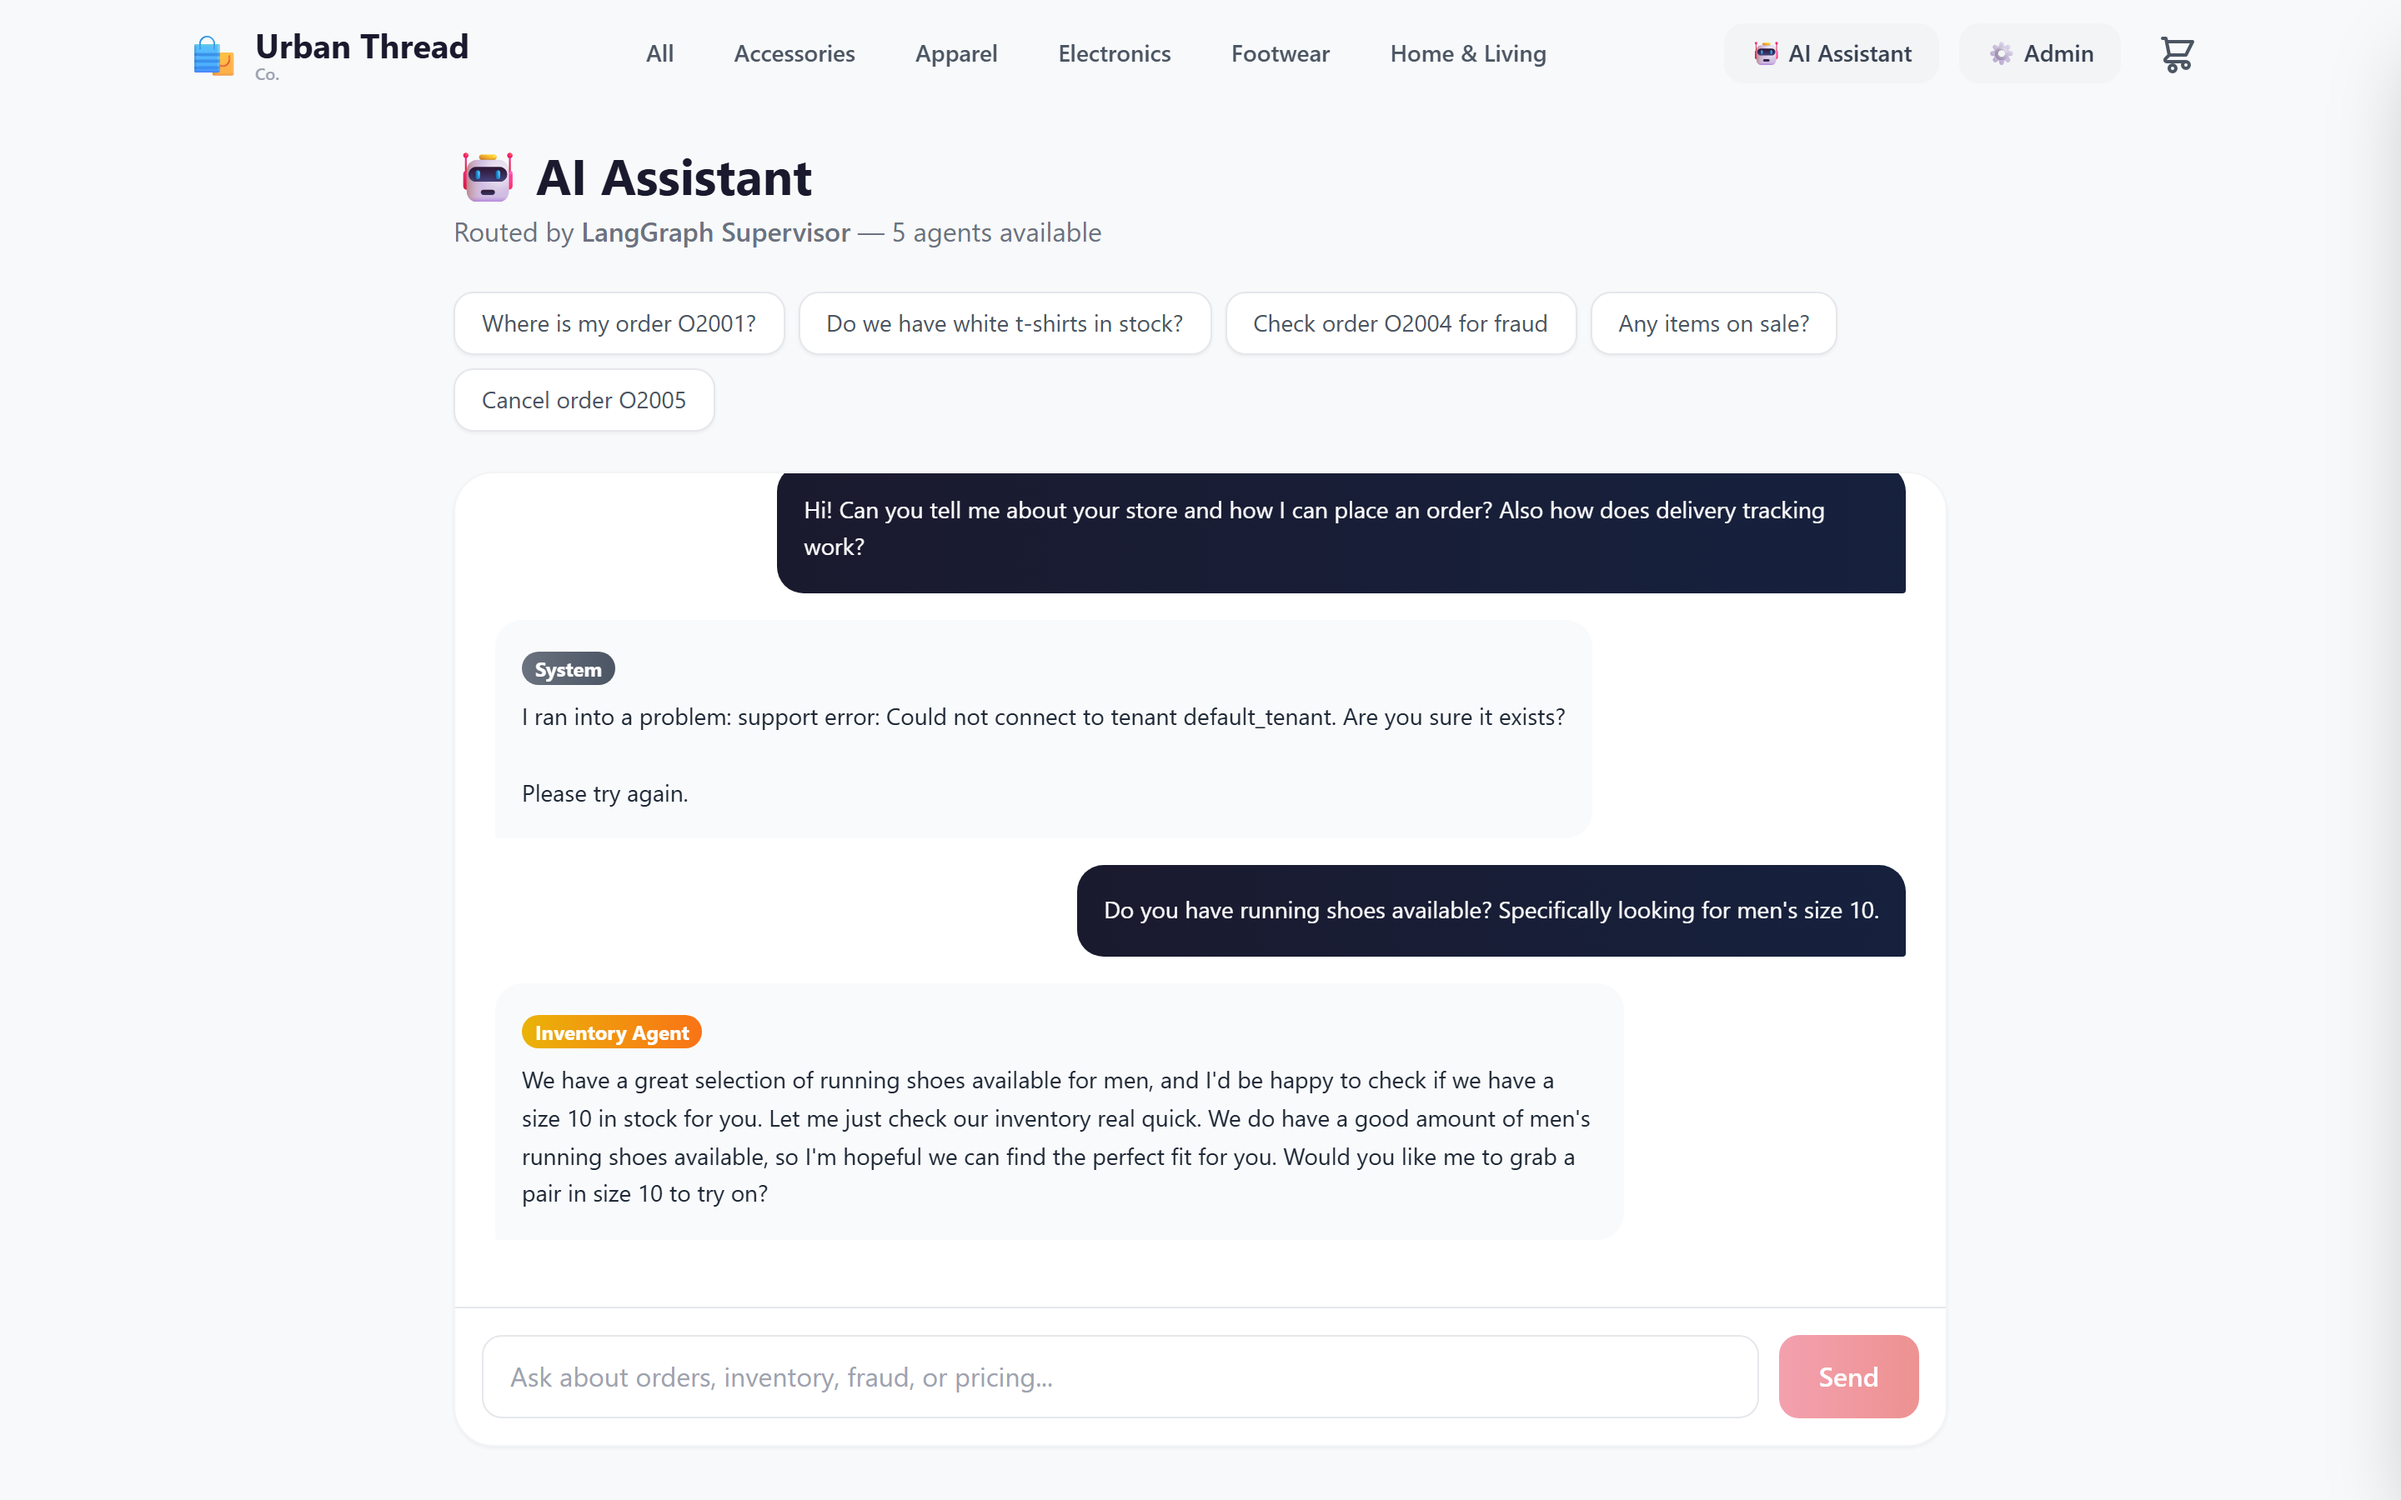
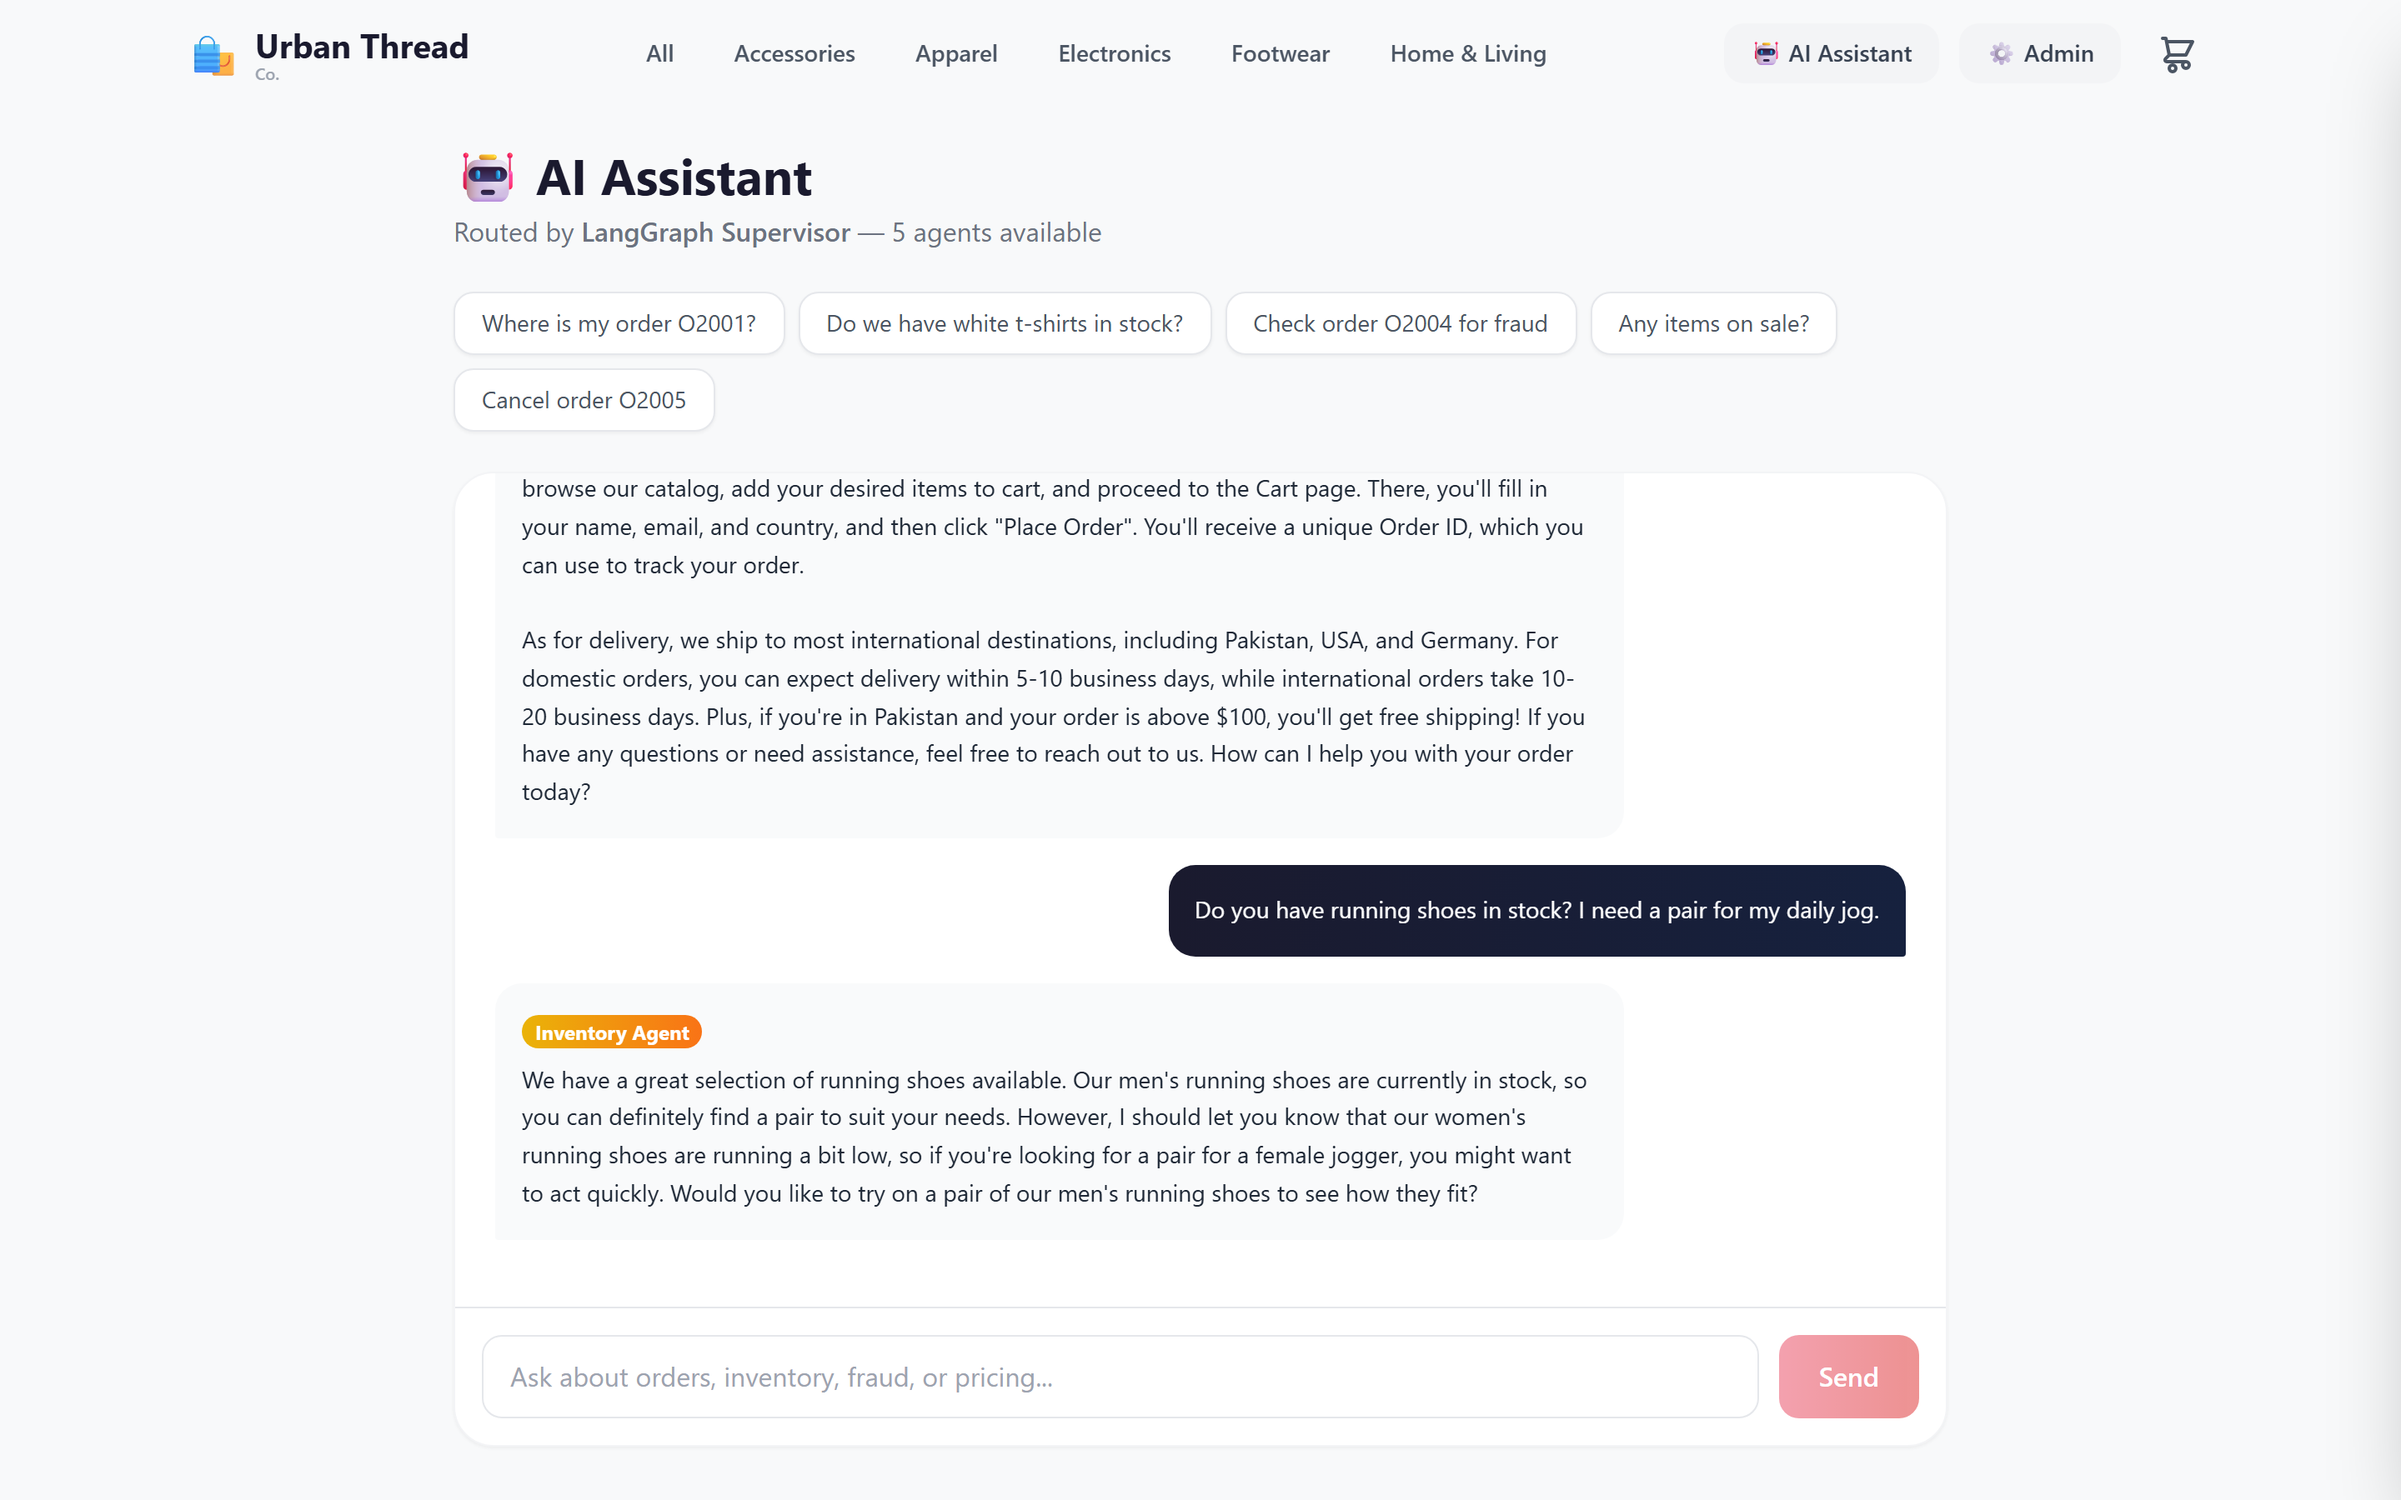
docs: retake screenshots with full storefront + clean agent responses

Changed region(s): [[0.2188, 0.3111, 0.8125, 0.56], [0.2188, 0.7156, 0.6562, 0.8089], [0.4375, 0.56, 0.7812, 0.6533]]

diff --git a/scripts/screenshots.js b/scripts/screenshots.js
@@ -18,116 +18,76 @@ const outDir = path.join(__dirname, '..', 'docs', 'images');
     await page.waitForTimeout(waitMs);
   }
 
-  // ─── 1. PLACE A REAL ORDER ─────────────────────
-  console.log('📍 Placing a real order...');
-  await page.goto(base, { waitUntil: 'networkidle' });
-  await page.waitForTimeout(1500);
+  const orderId = 'O2050';
+  console.log(`📍 Order: ${orderId}`);
 
-  // Add first product to cart
-  const addBtn = await page.$('button:has-text("Add to Cart")');
-  if (addBtn) await addBtn.click();
-  await page.waitForTimeout(1000);
-
-  // Go to cart/checkout
-  await page.goto(`${base}/orders`, { waitUntil: 'networkidle' });
-  await page.waitForTimeout(1000);
-
-  // Fill checkout form
-  await page.goto(`${base}/orders?checkout=true`, { waitUntil: 'networkidle' });
-  await page.waitForTimeout(1000);
-
-  // Type checkout info
-  const nameInput = await page.$('input[placeholder*="Name"], input[type="text"]');
-  // Try to fill checkout form - navigate to orders page
-  await page.goto(`${base}/orders`, { waitUntil: 'networkidle' });
-  await page.waitForTimeout(2000);
-
-  // Use API to place order (more reliable than UI interactions)
-  const orderResp = await page.evaluate(async () => {
-    const res = await fetch('/api/orders', {
-      method: 'POST',
-      headers: { 'Content-Type': 'application/json' },
-      body: JSON.stringify({
-        customer_name: 'Ahmed Hassan',
-        customer_email: 'ahmed.hassan@email.com',
-        shipping_country: 'Pakistan',
-        product_id: 'P1008',
-        quantity: 1
-      })
-    });
-    return res.json();
-  });
-  const orderId = orderResp.order_id;
-  console.log(`   ✅ Order placed: ${orderId}\n`);
-
-  // ─── 2. STOREFRONT HOMEPAGE ─────────────────────
-  console.log('1/9 🏠 Homepage...');
+  // ─── 1. HOMEPAGE FULL ────────────────────────────
+  console.log('1/10 🏠 Homepage full...');
   await page.goto(base, { waitUntil: 'networkidle' });
   await page.waitForTimeout(2000);
+  await page.screenshot({ path: path.join(outDir, '01-storefront-full.png'), fullPage: true });
+  console.log('   ✅ 01-storefront-full.png');
+
+  // Hero banner
   const hero = await page.locator('.rounded-3xl').first();
   await hero.screenshot({ path: path.join(outDir, '01-storefront.png') });
   console.log('   ✅ 01-storefront.png');
 
-  // ─── 3. AI ASSISTANT - AGENT CONVERSATIONS ──────
+  // ─── 2-7. AI ASSISTANT ───────────────────────────
   await page.goto(`${base}/chat`, { waitUntil: 'networkidle' });
   await page.waitForTimeout(1500);
 
-  // Agent 1: Customer Support
-  console.log('2/9 🎧 Customer Support...');
-  await sendChat('Hi! Can you tell me about your store and how I can place an order? Also how does delivery tracking work?', 12000);
+  // Support Agent
+  console.log('2/10 🎧 Support...');
+  await sendChat('Hi! Can you tell me about your store and how to place an order? Also how does delivery work?', 12000);
   await page.screenshot({ path: path.join(outDir, '02-agent-support.png') });
   console.log('   ✅ 02-agent-support.png');
 
-  // Agent 2: Inventory
-  console.log('3/9 📦 Inventory - Running shoes...');
-  await sendChat('Do you have running shoes available? Specifically looking for men\'s size 10.', 12000);
+  // Inventory Agent
+  console.log('3/10 📦 Inventory...');
+  await sendChat('Do you have running shoes in stock? I need a pair for my daily jog.', 12000);
   await page.screenshot({ path: path.join(outDir, '03-agent-inventory.png') });
   console.log('   ✅ 03-agent-inventory.png');
 
-  // Agent 3: Pricing
-  console.log('4/9 🏷 Pricing - Sales...');
-  await sendChat('Are there any items on sale right now? Looking for good deals.', 12000);
+  // Pricing Agent
+  console.log('4/10 🏷 Pricing...');
+  await sendChat('What items are currently on sale? Looking for good deals.', 12000);
   await page.screenshot({ path: path.join(outDir, '04-agent-pricing.png') });
   console.log('   ✅ 04-agent-pricing.png');
 
-  // Agent 4: Order Management - check the order we just placed
-  console.log('5/9 📋 Order Management...');
+  // Order Agent
+  console.log('5/10 📋 Order...');
   await sendChat(`Can you check the status of my order ${orderId}? I just placed it.`, 12000);
   await page.screenshot({ path: path.join(outDir, '05-agent-order.png') });
   console.log('   ✅ 05-agent-order.png');
 
-  // Agent 5: Fraud Agent
-  console.log('6/9 🛡 Fraud Analysis...');
-  await sendChat(`Please run a fraud analysis on order ${orderId} to make sure everything is safe.`, 20000);
+  // Fraud Agent
+  console.log('6/10 🛡 Fraud...');
+  await sendChat(`Please run a fraud analysis on order ${orderId} to check if everything is safe.`, 20000);
   await page.screenshot({ path: path.join(outDir, '06-agent-fraud.png') });
   console.log('   ✅ 06-agent-fraud.png');
 
-  // Full conversation
-  console.log('7/9 🎯 All agents conversation...');
+  // All agents
+  console.log('7/10 🎯 All agents...');
   await page.screenshot({ path: path.join(outDir, '07-all-agents.png') });
   console.log('   ✅ 07-all-agents.png');
 
-  // ─── 4. ADMIN DASHBOARD ─────────────────────────
-  console.log('8/9 ⚙ Admin Dashboard...');
+  // ─── 8. ADMIN DASHBOARD ─────────────────────────
+  console.log('8/10 ⚙ Admin...');
   await page.goto(`${base}/admin`, { waitUntil: 'networkidle' });
   await page.waitForTimeout(1000);
-  // Login with password from env
   const pwInput = await page.$('input[type="password"]');
-  if (pwInput) {
-    await pwInput.fill('demo123');
-    await page.keyboard.press('Enter');
-    await page.waitForTimeout(2000);
-  }
+  if (pwInput) { await pwInput.fill('demo123'); await page.keyboard.press('Enter'); await page.waitForTimeout(2000); }
   await page.screenshot({ path: path.join(outDir, '08-admin-dashboard.png') });
   console.log('   ✅ 08-admin-dashboard.png');
 
-  // ─── 5. API DOCS ────────────────────────────────
-  console.log('9/9 📖 API Docs...');
+  // ─── 9. API DOCS ────────────────────────────────
+  console.log('9/10 📖 API Docs...');
   await page.goto('http://localhost:8000/docs', { waitUntil: 'networkidle' });
   await page.waitForTimeout(2000);
   await page.screenshot({ path: path.join(outDir, '09-api-docs.png') });
   console.log('   ✅ 09-api-docs.png');
 
-  console.log('\n✅ All 9 screenshots captured!');
+  console.log('\n✅ All screenshots captured!');
   await browser.close();
 })();

diff --git a/README.md b/README.md
@@ -49,7 +49,16 @@ CommerceOS AI is an **autonomous, event-driven e-commerce platform** where **fiv
 
 Watch how all 5 agents collaborate through a real customer conversation:
 
-### 🤖 AI Assistant — Where the Magic Happens
+### 🏠 1. The Storefront
+A fully functional e-commerce store with real product photography, category filters, and AI-powered recommendations.
+
+<p align="center">
+  <img src="docs/images/01-storefront-full.png" alt="Storefront" width="90%"/>
+</p>
+
+---
+
+### 🤖 2. AI Assistant — Where the Magic Happens
 The **AI Assistant** is the heart of the system — a LangGraph supervisor routes each query to the right specialist agent automatically.
 
 #### 🎧 Customer Support — Store Info & Orders
@@ -96,7 +105,7 @@ The complete conversation shows the LangGraph supervisor seamlessly switching be
 
 ---
 
-### ⚙ 2. Admin Dashboard — Real-Time Operations
+### ⚙ 3. Admin Dashboard — Real-Time Operations
 The operations dashboard shows live fraud alerts, stock levels, and a complete audit trail of all agent activity.
 
 <p align="center">
@@ -105,7 +114,7 @@ The operations dashboard shows live fraud alerts, stock levels, and a complete a
 
 ---
 
-### 📖 3. API Documentation
+### 📖 4. API Documentation
 Every agent capability is also exposed through a REST API with full Swagger documentation.
 
 <p align="center">
